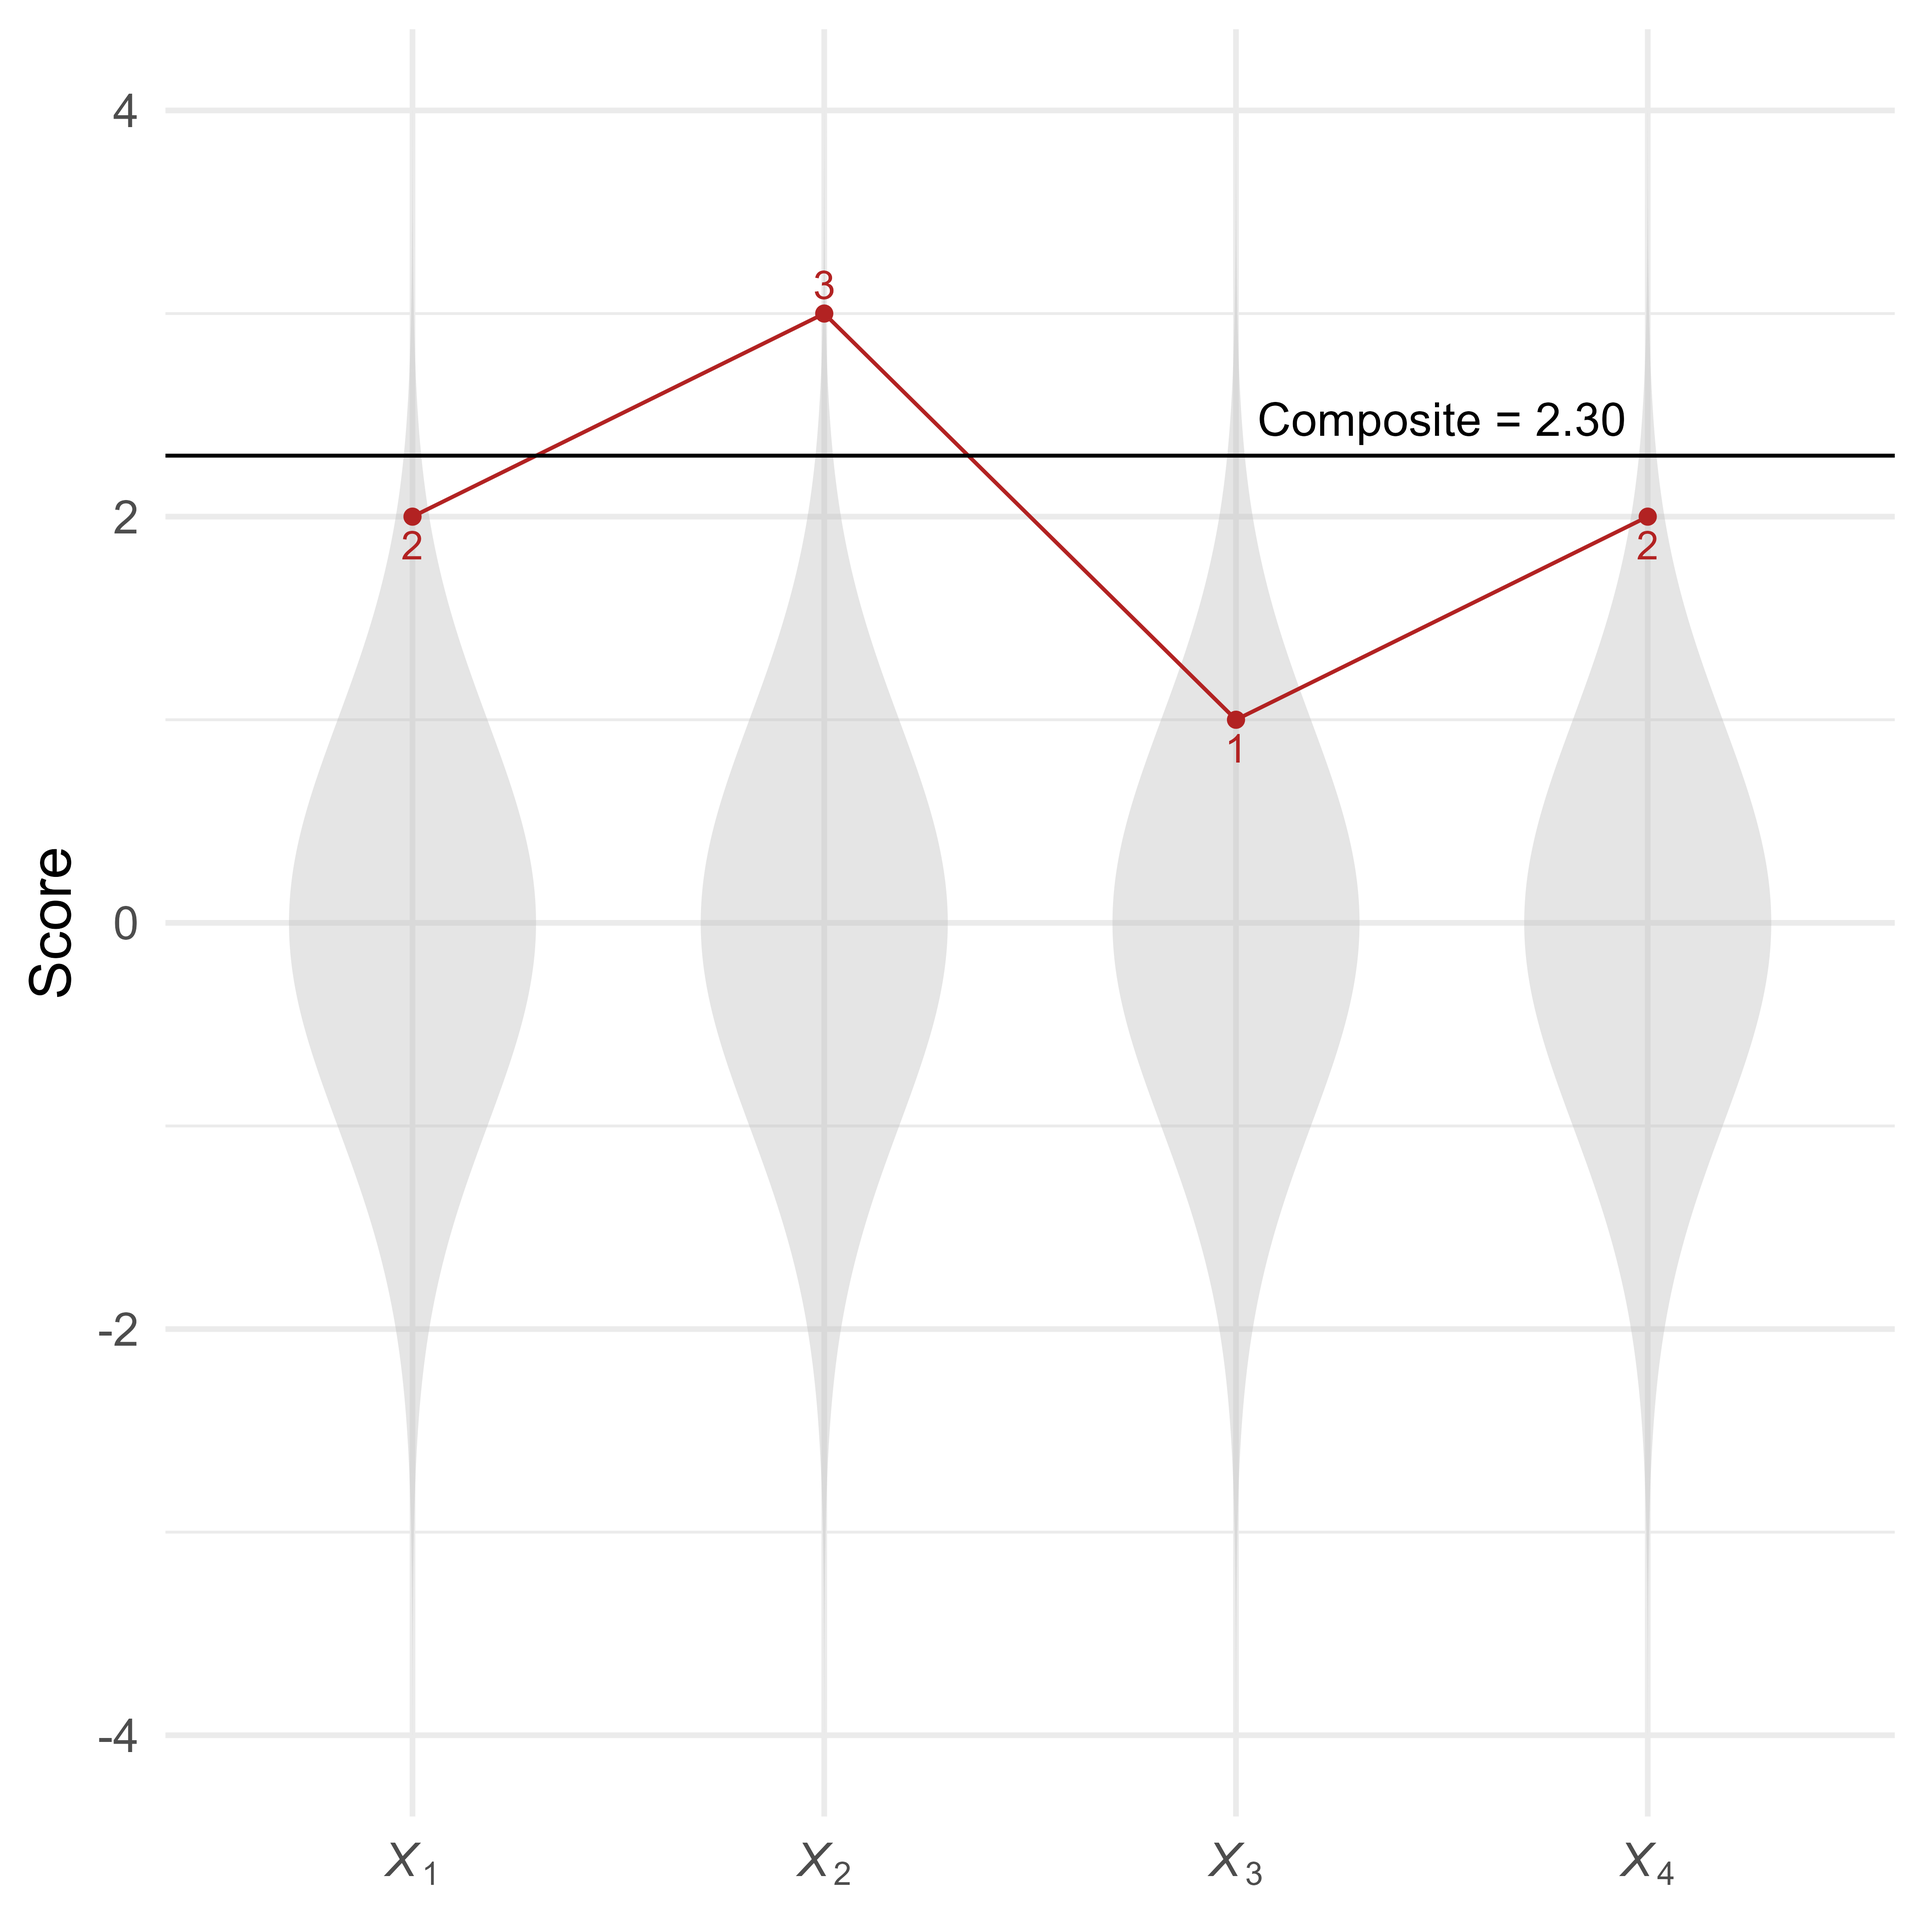
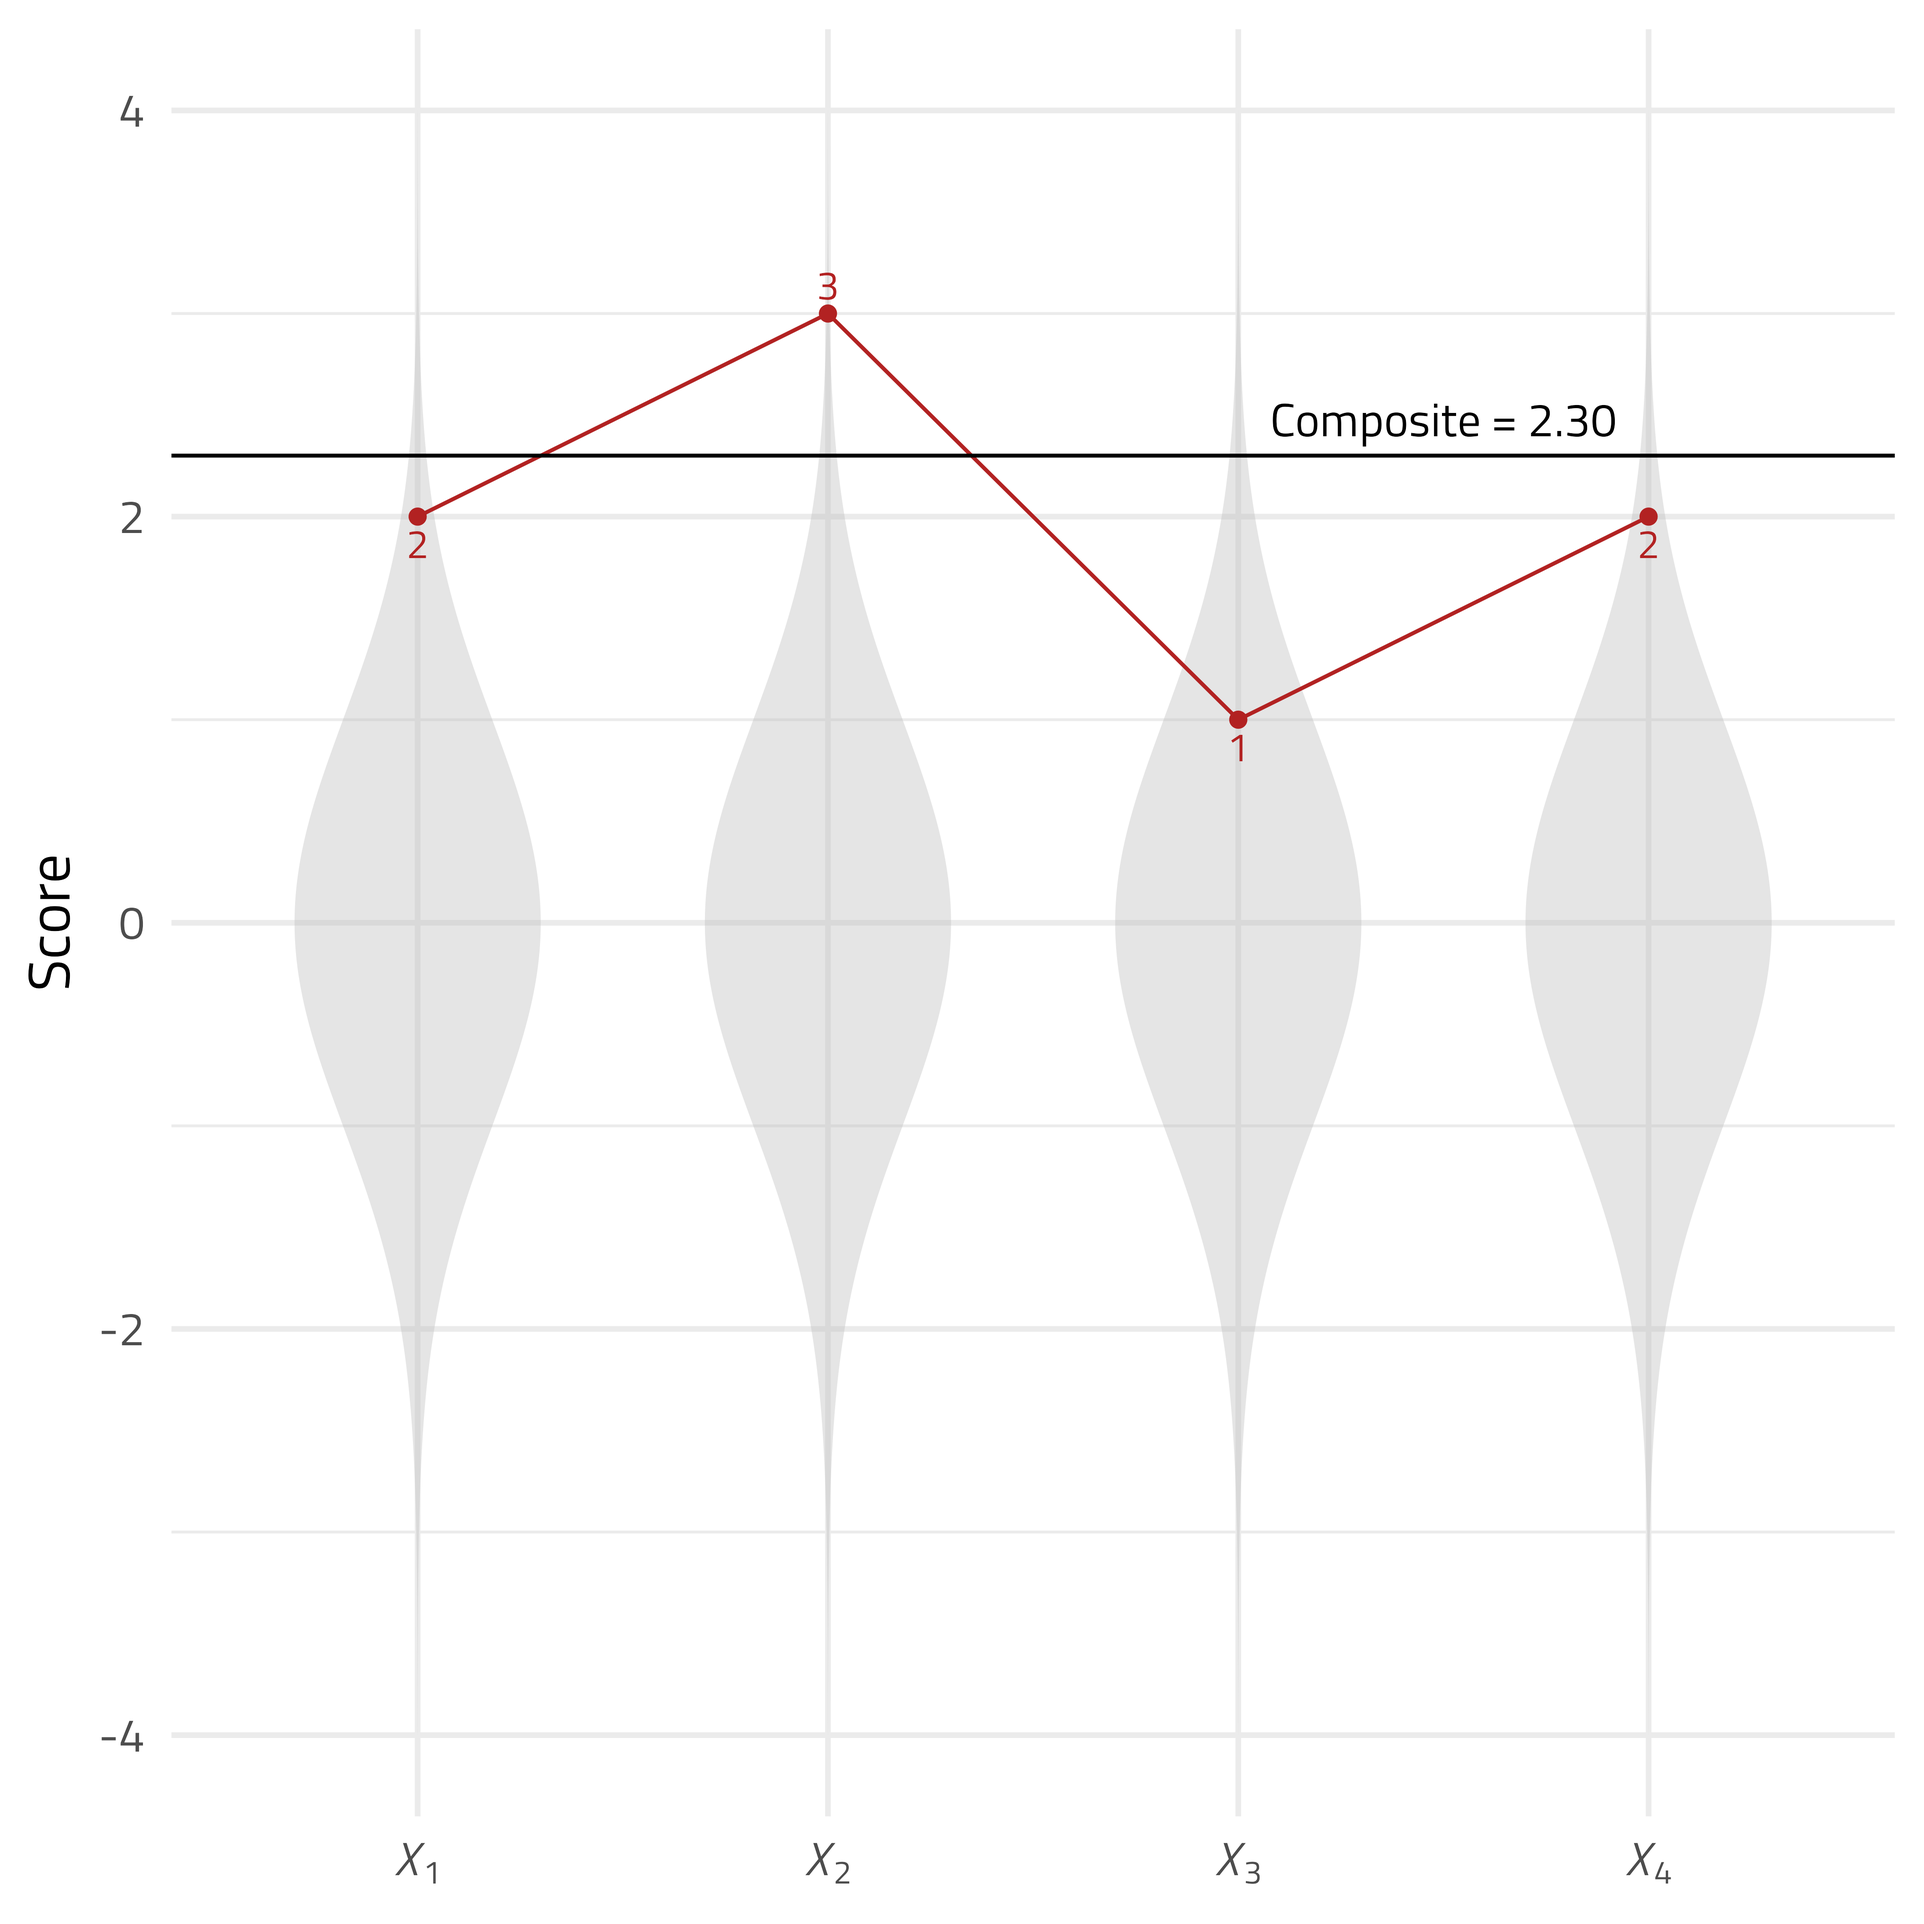
fix error on plots with different means and sds

diff --git a/docs/articles/tutorial_unusualprofile.html b/docs/articles/tutorial_unusualprofile.html
@@ -94,7 +94,7 @@
                         <h4 data-toc-skip class="author">W. Joel
 Schneider &amp; Feng Ji</h4>
             
-            <h4 data-toc-skip class="date">2022-12-06</h4>
+            <h4 data-toc-skip class="date">2022-12-13</h4>
       
       <small class="dont-index">Source: <a href="https://github.com/wjschne/unusualprofile/blob/HEAD/vignettes/tutorial_unusualprofile.Rmd" class="external-link"><code>vignettes/tutorial_unusualprofile.Rmd</code></a></small>
       <div class="hidden name"><code>tutorial_unusualprofile.Rmd</code></div>
@@ -573,12 +573,12 @@ most important information.</p>
 <span></span>
 <span><span class="va">d_LB</span> <span class="op">&lt;-</span></span>
 <span>  <span class="fu"><a href="https://dplyr.tidyverse.org/reference/select.html" class="external-link">select</a></span><span class="op">(</span><span class="va">d_case</span>, <span class="fu"><a href="https://tidyselect.r-lib.org/reference/starts_with.html" class="external-link">ends_with</a></span><span class="op">(</span><span class="st">"_LB"</span><span class="op">)</span><span class="op">)</span> <span class="op"><a href="https://magrittr.tidyverse.org/reference/pipe.html" class="external-link">%&gt;%</a></span></span>
-<span>  <span class="fu"><a href="https://dplyr.tidyverse.org/reference/rename.html" class="external-link">rename_with</a></span><span class="op">(</span> <span class="op">~</span> <span class="fu">str_remove</span><span class="op">(</span><span class="va">.</span>, <span class="st">"_FS"</span><span class="op">)</span><span class="op">)</span> <span class="op"><a href="https://magrittr.tidyverse.org/reference/pipe.html" class="external-link">%&gt;%</a></span></span>
+<span>  <span class="fu"><a href="https://dplyr.tidyverse.org/reference/rename.html" class="external-link">rename_with</a></span><span class="op">(</span><span class="op">~</span><span class="fu">str_remove</span><span class="op">(</span><span class="va">.</span>, <span class="st">"_FS"</span><span class="op">)</span><span class="op">)</span> <span class="op"><a href="https://magrittr.tidyverse.org/reference/pipe.html" class="external-link">%&gt;%</a></span></span>
 <span>  <span class="fu">pivot_longer</span><span class="op">(</span>cols <span class="op">=</span> <span class="fu"><a href="https://tidyselect.r-lib.org/reference/everything.html" class="external-link">everything</a></span><span class="op">(</span><span class="op">)</span><span class="op">)</span></span>
 <span></span>
 <span><span class="va">d_UB</span> <span class="op">&lt;-</span></span>
 <span>  <span class="fu"><a href="https://dplyr.tidyverse.org/reference/select.html" class="external-link">select</a></span><span class="op">(</span><span class="va">d_case</span>, <span class="fu"><a href="https://tidyselect.r-lib.org/reference/starts_with.html" class="external-link">ends_with</a></span><span class="op">(</span><span class="st">"_UB"</span><span class="op">)</span><span class="op">)</span> <span class="op"><a href="https://magrittr.tidyverse.org/reference/pipe.html" class="external-link">%&gt;%</a></span></span>
-<span>  <span class="fu"><a href="https://dplyr.tidyverse.org/reference/rename.html" class="external-link">rename_with</a></span><span class="op">(</span> <span class="op">~</span> <span class="fu">str_remove</span><span class="op">(</span><span class="va">.</span>, <span class="st">"_FS"</span><span class="op">)</span><span class="op">)</span> <span class="op"><a href="https://magrittr.tidyverse.org/reference/pipe.html" class="external-link">%&gt;%</a></span></span>
+<span>  <span class="fu"><a href="https://dplyr.tidyverse.org/reference/rename.html" class="external-link">rename_with</a></span><span class="op">(</span><span class="op">~</span><span class="fu">str_remove</span><span class="op">(</span><span class="va">.</span>, <span class="st">"_FS"</span><span class="op">)</span><span class="op">)</span> <span class="op"><a href="https://magrittr.tidyverse.org/reference/pipe.html" class="external-link">%&gt;%</a></span></span>
 <span>  <span class="fu">pivot_longer</span><span class="op">(</span>cols <span class="op">=</span> <span class="fu"><a href="https://tidyselect.r-lib.org/reference/everything.html" class="external-link">everything</a></span><span class="op">(</span><span class="op">)</span><span class="op">)</span></span>
 <span></span>
 <span><span class="va">d_FS</span> <span class="op">&lt;-</span></span>

diff --git a/docs/reference/cond_maha.html b/docs/reference/cond_maha.html
@@ -211,7 +211,7 @@ each person</p></li>
 <span class="r-in"><span>          R <span class="op">=</span> <span class="va">R_all</span>,</span></span>
 <span class="r-in"><span>          v_dep <span class="op">=</span> <span class="fu"><a href="https://rdrr.io/r/base/c.html" class="external-link">c</a></span><span class="op">(</span><span class="st">"Math"</span>, <span class="st">"Read"</span><span class="op">)</span>,</span></span>
 <span class="r-in"><span>          v_ind <span class="op">=</span> <span class="fu"><a href="https://rdrr.io/r/base/c.html" class="external-link">c</a></span><span class="op">(</span><span class="st">"Gf"</span>, <span class="st">"Gs"</span>, <span class="st">"Gc"</span><span class="op">)</span><span class="op">)</span></span></span>
-<span class="r-out co"><span class="r-pr">#&gt;</span> Conditional Mahalanobis Distance = 2.4104, df = 2, p = 0.9452 Conditional Mahalanobis Distance = 0.0860, df = 2, p = 0.0037 Conditional Mahalanobis Distance = 1.2342, df = 2, p = 0.5331 Conditional Mahalanobis Distance = 1.2419, df = 2, p = 0.5375 Conditional Mahalanobis Distance = 0.7714, df = 2, p = 0.2573 Conditional Mahalanobis Distance = 1.7890, df = 2, p = 0.7981 Conditional Mahalanobis Distance = 1.4796, df = 2, p = 0.6653 Conditional Mahalanobis Distance = 1.5114, df = 2, p = 0.6809 Conditional Mahalanobis Distance = 2.7298, df = 2, p = 0.9759 Conditional Mahalanobis Distance = 2.0010, df = 2, p = 0.8649 </span>
+<span class="r-out co"><span class="r-pr">#&gt;</span> Conditional Mahalanobis Distance = 1.5601, df = 2, p = 0.7039 Conditional Mahalanobis Distance = 1.4517, df = 2, p = 0.6514 Conditional Mahalanobis Distance = 1.8036, df = 2, p = 0.8034 Conditional Mahalanobis Distance = 0.6700, df = 2, p = 0.2010 Conditional Mahalanobis Distance = 1.4898, df = 2, p = 0.6703 Conditional Mahalanobis Distance = 0.5280, df = 2, p = 0.1301 Conditional Mahalanobis Distance = 2.6252, df = 2, p = 0.9681 Conditional Mahalanobis Distance = 2.0549, df = 2, p = 0.8789 Conditional Mahalanobis Distance = 0.9293, df = 2, p = 0.3507 Conditional Mahalanobis Distance = 0.8403, df = 2, p = 0.2975 </span>
 </code></pre></div>
     </div>
   </div>

diff --git a/docs/articles/unusualprofile_calculations.html b/docs/articles/unusualprofile_calculations.html
@@ -94,7 +94,7 @@ package</h1>
                         <h4 data-toc-skip class="author">W. Joel
 Schneider &amp; Feng Ji</h4>
             
-            <h4 data-toc-skip class="date">2022-12-06</h4>
+            <h4 data-toc-skip class="date">2022-12-13</h4>
       
       <small class="dont-index">Source: <a href="https://github.com/wjschne/unusualprofile/blob/HEAD/vignettes/unusualprofile_calculations.Rmd" class="external-link"><code>vignettes/unusualprofile_calculations.Rmd</code></a></small>
       <div class="hidden name"><code>unusualprofile_calculations.Rmd</code></div>
@@ -277,7 +277,7 @@ this:</p>
 converting covariances to correlations with the <code>cov2cor</code>
 function:</p>
 <div class="sourceCode" id="cb8"><pre class="downlit sourceCode r">
-<code class="sourceCode R"><span><span class="co"># Convert covariance matrix to correlations </span></span>
+<code class="sourceCode R"><span><span class="co"># Convert covariance matrix to correlations</span></span>
 <span><span class="va">R_all</span> <span class="op">&lt;-</span> <span class="fu"><a href="https://rdrr.io/r/stats/cor.html" class="external-link">cov2cor</a></span><span class="op">(</span><span class="va">Sigma</span><span class="op">)</span></span>
 <span></span>
 <span><span class="va">R_all</span></span>

diff --git a/docs/reference/plot.maha.html b/docs/reference/plot.maha.html
@@ -76,7 +76,7 @@ using dependent variables only).</p>
 <span>  <span class="va">x</span>,</span>
 <span>  <span class="va">...</span>,</span>
 <span>  p_tail <span class="op">=</span> <span class="fl">0</span>,</span>
-<span>  family <span class="op">=</span> <span class="st">"serif"</span>,</span>
+<span>  family <span class="op">=</span> <span class="st">"sans"</span>,</span>
 <span>  score_digits <span class="op">=</span> <span class="fu"><a href="https://rdrr.io/r/base/ifelse.html" class="external-link">ifelse</a></span><span class="op">(</span><span class="fu"><a href="https://rdrr.io/r/base/Extremes.html" class="external-link">min</a></span><span class="op">(</span><span class="va">x</span><span class="op">$</span><span class="va">sigma</span><span class="op">)</span> <span class="op">&gt;=</span> <span class="fl">10</span>, <span class="fl">0</span>, <span class="fl">2</span><span class="op">)</span></span>
 <span><span class="op">)</span></span></code></pre></div>
     </div>

diff --git a/docs/reference/plot.cond_maha.html b/docs/reference/plot.cond_maha.html
@@ -71,7 +71,7 @@
 <span>  <span class="va">x</span>,</span>
 <span>  <span class="va">...</span>,</span>
 <span>  p_tail <span class="op">=</span> <span class="fl">0</span>,</span>
-<span>  family <span class="op">=</span> <span class="st">"serif"</span>,</span>
+<span>  family <span class="op">=</span> <span class="st">"sans"</span>,</span>
 <span>  score_digits <span class="op">=</span> <span class="fu"><a href="https://rdrr.io/r/base/ifelse.html" class="external-link">ifelse</a></span><span class="op">(</span><span class="fu"><a href="https://rdrr.io/r/base/Extremes.html" class="external-link">min</a></span><span class="op">(</span><span class="va">x</span><span class="op">$</span><span class="va">sigma</span><span class="op">)</span> <span class="op">&gt;=</span> <span class="fl">10</span>, <span class="fl">0</span>, <span class="fl">2</span><span class="op">)</span></span>
 <span><span class="op">)</span></span></code></pre></div>
     </div>

diff --git a/NEWS.md b/NEWS.md
@@ -1,6 +1,6 @@
 # unusualprofile 0.1.2 _2022-12-07_
 
-* Fixed bugs related to having scores with different means and standard deviations
+* Fixed plot.cond_maha bugs related to having scores with different means and standard deviations
 
 
 # unusualprofile 0.1.1 _2022-12-01_

diff --git a/cran-comments.md b/cran-comments.md
@@ -10,7 +10,7 @@
 
 ## R CMD check results
 
-Duration: 26.8s
+Duration: 28.5s
 
 0 errors ✔ | 0 warnings ✔ | 0 notes ✔
 
